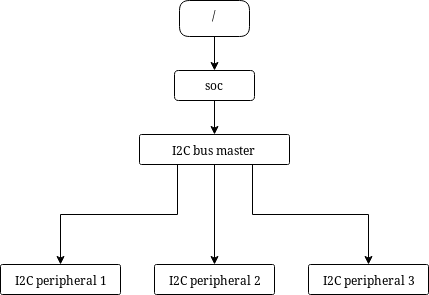
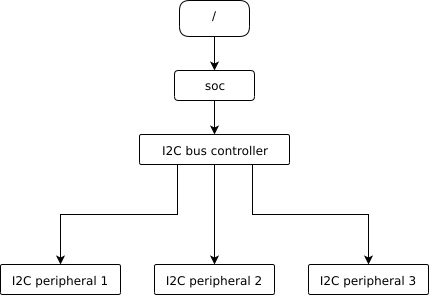
doc: dts/intro.rst improvements
Syntax highlight all the DTS fragments and add some more explanatory
text.

Split the content about important properties into its own section, and
add a similar section about unit addresses.

diff --git a/doc/guides/dts/intro.rst b/doc/guides/dts/intro.rst
@@ -33,6 +33,8 @@ drivers. Zephyr does not work this way because the size of the devicetree
 binary and associated handling code would be too large to fit comfortably on
 the relatively constrained devices Zephyr supports.
 
+.. _dt-syntax:
+
 Syntax and structure
 ********************
 
@@ -44,7 +46,7 @@ for this tree is called DTS (for devicetree source), and is defined in the
 
 Here is an example DTS file:
 
-.. code-block:: none
+.. code-block:: DTS
 
    /dts-v1/;
 
@@ -56,9 +58,12 @@ Here is an example DTS file:
            };
    };
 
-This example has three nodes:
+The ``/dts-v1/;`` line means the file's contents are in version 1 of the DTS
+syntax, which has replaced a now-obsolete "version 0".
 
-#. A root node
+The tree has three *nodes*:
+
+#. A root node: ``/``
 #. A node named ``a-node``, which is a child of the root node
 #. A node named ``a-sub-node``, which is a child of ``a-node``
 
@@ -82,25 +87,28 @@ for a complete list of ways to write a property value in a DTS file.
 
 In practice, devicetree nodes correspond to some hardware, and the node
 hierarchy reflects the hardware's physical layout. For example, let's consider
-a board with three I2C peripherals connected to an I2C bus master on an SoC,
+a board with three I2C peripherals connected to an I2C bus controller on an SoC,
 like this:
 
 .. figure:: zephyr_dt_i2c_high_level.png
    :alt: representation of a board with three I2C peripherals
    :figclass: align-center
 
-Nodes corresponding to the I2C bus master and each I2C peripheral would be
+Nodes corresponding to the I2C bus controller and each I2C peripheral would be
 present in this board's devicetree. Reflecting the hardware layout, the
-devicetree's peripheral nodes would be children of the bus master node. Similar
-conventions exist for representing other types of hardware in devicetree.
+devicetree's peripheral nodes would be children of the bus controller node.
+Similar conventions exist for representing other types of hardware in
+devicetree.
 
-The corresponding DTS would look something like this:
+The DTS would look something like this:
 
-.. code-block:: none
+.. code-block:: DTS
+
+   /dts-v1/;
 
    / {
            soc {
-                   i2c-bus-master {
+                   i2c-bus-controller {
                            i2c-peripheral-1 {
                            };
                            i2c-peripheral-2 {
@@ -121,20 +129,117 @@ names and properties you might see when working with I2C devices.
 .. figure:: zephyr_dt_i2c_example.png
    :figclass: align-center
 
-   I2C devicetree example with real-world names and properties
+   I2C devicetree example with real-world names and properties.
+   Node names are at the top of each node with a gray background.
+   Properties are shown as "name=value" lines.
 
-Above, node names -- like ``i2c@40003000`` -- are at the top of each node, with
-a gray background, except for the root node, which is shown using its path
-``/``. Properties are shown as ``name=value`` pairs below the node names.
+This is the corresponding DTS:
+
+.. code-block:: DTS
+
+   /dts-v1/;
+
+   / {
+           soc {
+                   i2c@40003000 {
+                           compatible = "nordic,nrf-twim";
+                           label = "I2C_0";
+                           reg = <0x40003000 0x1000>;
+
+                           apds9960@39 {
+                                   compatible = "avago,apds9960";
+                                   label = "APDS9960";
+                                   reg = <0x39>;
+                           };
+                           ti_hdc@43 {
+                                   compatible = "ti,hdc", "ti,hdc1010";
+                                   label = "HDC1010";
+                                   reg = <0x43>;
+                           };
+                           mma8652fc@1d {
+                                   compatible = "nxp,fxos8700", "nxp,mma8652fc";
+                                   label = "MMA8652FC";
+                                   reg = <0x1d>;
+                           };
+                   };
+           };
+   };
+
+In addition to showing more realistic names and properties, the above example
+introduces a new devicetree concept: unit addresses. Unit addresses are the
+parts of node names after an "at" sign (``@``), like ``40003000`` in
+``i2c@40003000``, or ``39`` in ``apds9960@39``. Unit addresses are optional:
+the ``soc`` node does not have one.
+
+Some more details about unit addresses and important properties follow.
+
+Unit address examples
+*********************
+
+In devicetree, unit addresses give a node's address in the
+address space of its parent node. Here are some example unit addresses for
+different types of hardware.
+
+Memory-mapped peripherals
+    The peripheral's register map base address.
+    For example, the node named ``i2c@40003000`` represents an I2C controller
+    whose register map base address is 0x40003000.
+
+I2C peripherals
+    The peripheral's address on the I2C bus.
+    For example, the child node ``apds9960@39`` of the I2C controller
+    in the previous section has I2C address 0x39.
+
+SPI peripherals
+    An index representing the peripheral's chip select line number.
+    (If there is no chip select line, 0 is used.)
+
+Memory
+    The physical start address.
+    For example, a node named ``memory@2000000`` represents RAM starting at
+    physical address 0x2000000.
+
+Memory-mapped flash
+    Like RAM, the physical start address.
+    For example, a node named ``flash@8000000`` represents a flash device
+    whose physical start address is 0x8000000.
+
+Flash partitions
+    The start offset of the partition within its flash device.
+    For example, take this flash device and its partitions:
+
+    .. code-block:: DTS
+
+        flash@8000000 {
+            /* ... */
+            partitions {
+                    partition@0 { /* ... */ };
+                    partition@20000 {  /* ... */ };
+                    /* ... */
+            };
+        };
+
+    The node named ``partition@0`` has offset 0 from the start of its flash
+    device, so its base address is 0x8000000. Similarly, the base address of
+    the node named ``partition@20000`` is 0x8020000.
+
+Important properties
+********************
 
 Some important properties are:
 
 compatible
-    Says what kind of device the node represents. The value is a
-    string in the format "vendor,device", like ``"avago,apds9960"``, or a
-    sequence of these, like ``"ti,hdc", "ti,hdc1010"``. The build system uses
-    the compatible property to find the right :ref:`bindings <dt-bindings>` for
-    the node.
+    Says what kind of device the node represents. The recommended format is
+    ``"manufacturer,device"``, like ``"avago,apds9960"``, or a sequence of
+    these, like ``"ti,hdc", "ti,hdc1010"``. The file
+    :zephyr_file:`dts/bindings/vendor-prefixes.txt` contains a list of accepted
+    ``manufacturer`` prefixes.
+
+    It is also sometimes a value like ``gpio-keys``, ``mmio-sram``, or
+    ``fixed-clock`` when the hardware's behavior is generic.
+
+    The build system uses the compatible property to find the right
+    :ref:`bindings <dt-bindings>` for the node.
 
 label
     The device's name according to Zephyr's :ref:`device_drivers`. The value
@@ -154,36 +259,11 @@ reg
     select line, or some other value depending on the kind of device the node
     represents.
 
-This tree has the following DTS.
-
-.. code-block:: none
-
-   / {
-           soc {
-                   i2c@40003000 {
-                           compatible = "nordic,nrf-twim";
-                           label = "I2C_0";
-                           reg = <0x40003000 0x1000>;
-
-                           apds9960@39 {
-                                   compatible = "avago,apds9960";
-                                   label = "APDS9960";
-                                   reg = <0x39>;
-                           };
-                           ti_hdc@43 {
-                                   compatible = "ti,hdc", "ti,hdc1010";
-                                   label = "HDC1010;
-                                   reg = <0x43>;
-                           };
-                           mma8652fc@1d {
-                                   compatible = "nxp,fxos8700", "nxp,mma8652fc";
-                                   label = "MMA8652FC";
-                                   reg = <0x1d>;
-                           };
-                   };
-           };
-   };
-
+    Unlike a node's unit address, which is a simple number, the reg property is
+    an array of 32-bit unsigned integers. This is often used to describe the
+    size of a register map. In the case of the ``i2c@40003000`` node above,
+    ``reg = <0x40003000 0x1000>;`` means the register map occupies 0x1000 bytes
+    in the memory map.
 
 Input and output files
 **********************
